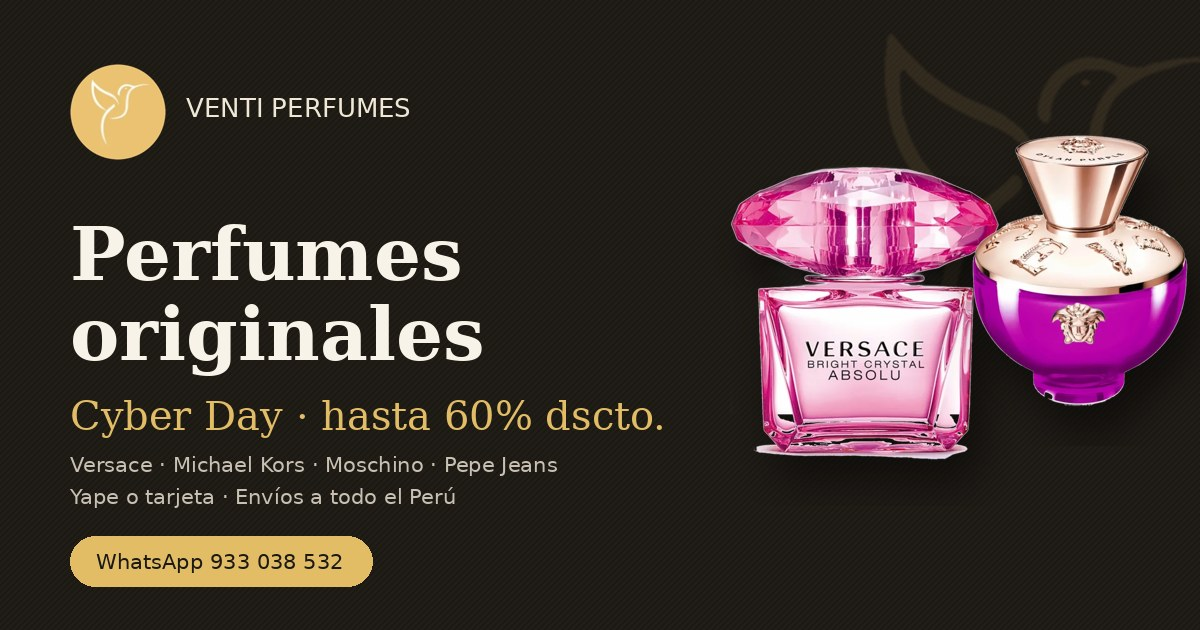
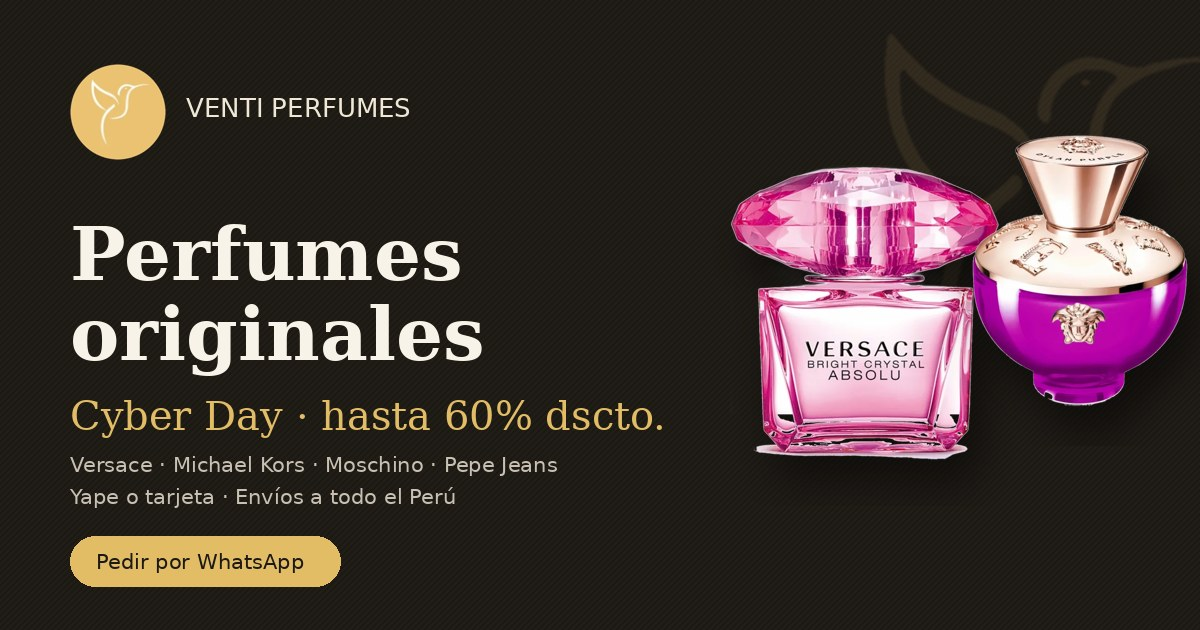
bridge: v3.2 wa

Changed region(s): [[0.0617, 0.8444, 0.3083, 0.9349]]

diff --git a/index.html b/index.html
@@ -422,7 +422,7 @@ footer::before{content:"";position:absolute;left:-60px;bottom:-40px;width:320px;
       <p class="lead">Fragancias 100% originales con hasta 60% de descuento. Paga con Yape o tarjeta, o pide por WhatsApp. Envíos a todo el Perú.</p>
       <div class="hero-ctas">
         <a class="cta" href="#catalogo">Ver catálogo</a>
-        <a class="cta ghost" href="https://api.whatsapp.com/send?phone=51933038532&amp;text=%C2%A1Hola!%20VENTI%20PERFUMES%2C%20quiero%20saber%20m%C3%A1s%20sobre%20sus%20perfumes%20%E2%9C%A8" target="_blank" rel="noopener">WhatsApp 933 038 532</a>
+        <a class="cta ghost" href="https://api.whatsapp.com/send?phone=51933038532&amp;text=%C2%A1Hola!%20VENTI%20PERFUMES%2C%20quiero%20saber%20m%C3%A1s%20sobre%20sus%20perfumes%20%E2%9C%A8" target="_blank" rel="noopener"><svg viewBox="0 0 24 24" width="16" height="16" aria-hidden="true"><path fill="currentColor" d="M12 2a10 10 0 0 0-8.6 15.1L2 22l5-1.3A10 10 0 1 0 12 2Zm0 18.2a8.2 8.2 0 0 1-4.2-1.2l-.3-.2-3 .8.8-2.9-.2-.3A8.2 8.2 0 1 1 12 20.2Zm4.5-6.1c-.2-.1-1.5-.7-1.7-.8s-.4-.1-.6.1-.6.8-.8 1-.3.2-.5.1a6.7 6.7 0 0 1-3.3-2.9c-.3-.4.2-.4.7-1.3.1-.2 0-.3 0-.4l-.8-1.8c-.2-.5-.4-.4-.6-.4h-.5a1 1 0 0 0-.7.3 3 3 0 0 0-.9 2.2 5.2 5.2 0 0 0 1.1 2.8 11.9 11.9 0 0 0 4.6 4c1.7.7 2.1.6 2.8.5a2.4 2.4 0 0 0 1.6-1.1 2 2 0 0 0 .1-1.1c0-.1-.2-.2-.5-.3Z"/></svg>Pedir por WhatsApp</a>
       </div>
     </div>
     <div class="hero-art">
@@ -512,7 +512,7 @@ footer::before{content:"";position:absolute;left:-60px;bottom:-40px;width:320px;
     </div>
     <div><h4>Tienda</h4><a href="#catalogo" data-f="Mujer">Fragancias femeninas</a><a href="#catalogo" data-f="Hombre">Fragancias masculinas</a><a href="#catalogo" data-f="Sets">Sets y estuches</a><a href="#catalogo" data-f="Ofertas">Ofertas Cyber Day</a></div>
     <div><h4>Ayuda</h4><a href="#comprar">Cómo comprar</a><a href="#comprar">Medios de pago</a><a href="#puntos">Puntos Venti</a><a href="#comprar">Envíos a todo el Perú</a></div>
-    <div><h4>Contacto</h4><a href="https://api.whatsapp.com/send?phone=51933038532" target="_blank" rel="noopener">WhatsApp 933 038 532</a><a href="https://www.instagram.com/veintidue.shop" target="_blank" rel="noopener">@veintidue.shop</a><a href="https://www.tiktok.com/@ventidue.joyas" target="_blank" rel="noopener">TikTok @ventidue.joyas</a></div>
+    <div><h4>Contacto</h4><a href="https://api.whatsapp.com/send?phone=51933038532" target="_blank" rel="noopener">Escríbenos por WhatsApp</a><a href="https://www.instagram.com/veintidue.shop" target="_blank" rel="noopener">@veintidue.shop</a><a href="https://www.tiktok.com/@ventidue.joyas" target="_blank" rel="noopener">TikTok @ventidue.joyas</a></div>
   </div>
   <div class="wrap copy"><span class="cl"><img src="/logo.webp" alt=""><span>© 2026 Veintidue · Todos los derechos reservados</span></span></div>
 </footer>
